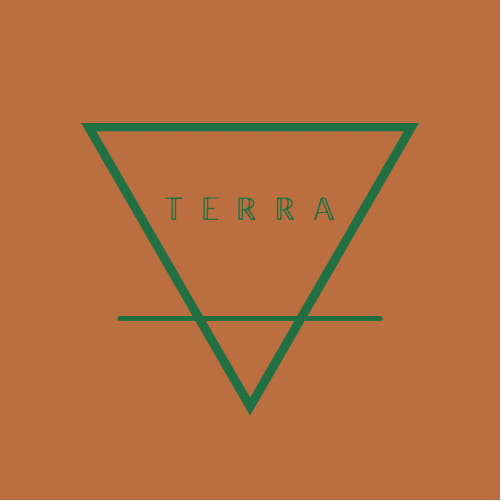
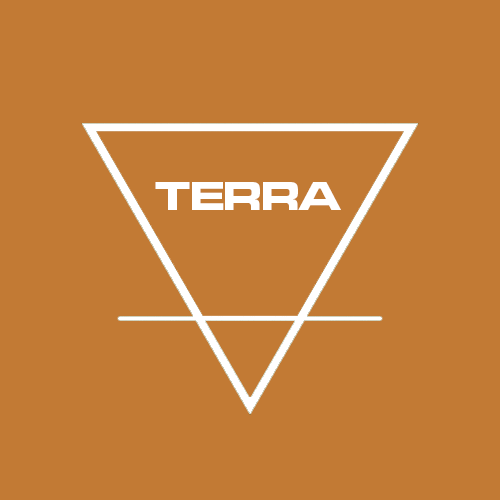
Last push

Changed region(s): [[0.1497, 0.2395, 0.8383, 0.8383]]

diff --git a/index.html b/index.html
@@ -26,27 +26,33 @@
         </audio>
 
         <section class="welcome">
-            <h2>Buenvenido a</h2>
             <img class="img-fluid img-logo" src="./img/logo.png" alt="Logo de Fusion Park">
-            <button onclick="start();" class="btn btn-primary" type="button">Bienvenido</button>
+            <p>Una vez que estés dentro mueve el curso por la pantalla. Si estás en un dispositivos móvil, desliza tu dedo por los logos de los elementos para descubrir más.</p>
+            <button onclick="start();" class="btn btn-primary boton" type="button">EMPIEZA</button>
         </section>
 
         <div class="logosection container-fluid">
             <div class="row">
-                <div class="aquadiv logo-div col-12">
-                    <img class="img-fluid img-logo" src="./img/aqua.png" alt="logo de Aqua">
-                </div>
                 <div class="caelidiv logo-div col-12">
                     <img class="img-fluid img-logo" src="./img/caeli.png" alt="logo de Caeli">
-                </div>
-                <div class="terradiv logo-div col-12">
-                    <img class="img-fluid img-logo" src="./img/terra.png" alt="logo de Terra">
                 </div>
                 <div class="ignisdiv logo-div col-12">
                     <img class="img-fluid img-logo" src="./img/ignis.png" alt="logo de Ignis">
                 </div>
+                <div class="aquadiv logo-div col-12">
+                    <img class="img-fluid img-logo" src="./img/aqua.png" alt="logo de Aqua">
+                </div>
+                <div class="terradiv logo-div col-12">
+                    <img class="img-fluid img-logo" src="./img/terra.png" alt="logo de Terra">
+                </div>
             </div>
         </div>
+        <footer class="footer mt-auto py-3 bg-light">
+            <div class="container">
+                <p>CREADO POR ESTUDIANTES DE COMUNICACIÓN SOCIAL PARA NARRATIVAS TRANSMEDIA</p>
+            </div>
+        </footer>
+        
         
         <script src="https://cdn.jsdelivr.net/npm/bootstrap@5.0.0-beta1/dist/js/bootstrap.bundle.min.js" integrity="sha384-ygbV9kiqUc6oa4msXn9868pTtWMgiQaeYH7/t7LECLbyPA2x65Kgf80OJFdroafW" crossorigin="anonymous"></script>
         <script src="./js/index.js" async defer></script>

diff --git a/css/index.css b/css/index.css
@@ -1,5 +1,13 @@
+@font-face {
+    font-family: 'micrograma';
+    src: url('/fonts/micro.otf');
+  }
+
+@import url('https://fonts.googleapis.com/css2?family=Questrial&display=swap');
+
 body{
     overflow: hidden;
+    font-family: 'micrograma';
 }
 .logosection{
     height: 100vh;
@@ -19,30 +27,37 @@ body{
     transition: ease-in 1s;
 }
 
+.welcome p{
+    font-family: 'Questrial', sans-serif;
+    color: white;
+    width: 300px;
+    text-align: center;
+}
+
 
 .aquadiv{
-    background-color: #5297fe;
+    background-color:#0098ff;
     display: flex;
     align-items: center;
     
 }
 
 .caelidiv{
-    background-color: #d9ffbb;
+    background-color: #d8ffcc;
     display: flex;
     align-items: center;
     
 }
 
 .ignisdiv{
-    background-color: #d64721;
+    background-color: #f91b1b;
     display: flex;
     align-items: center;
     
 }
 
 .terradiv{
-    background-color: #bb703f;
+    background-color: #d87b2a;
     display: flex;
     align-items: center;
     
@@ -93,13 +108,36 @@ body{
     margin: auto; 
 } 
 
+.boton{
+    background-color: transparent;
+    border: 3px solid white;
+}
+
+
+footer {
+    position: absolute;
+    height: 40px;
+    width: 100vw;
+    bottom: 0;
+    z-index: 3;
+}
+
+footer p{
+    font-size: 12px;
+    text-align: center;
+}
 
 @media (max-width: 992px) { 
     .img-logo{
         
-        width: 180px;
+        width: 160px;
         
         
+    }
+
+    footer p{
+        font-size: 7px;
+        text-align: center;
     }
  }
 

diff --git a/js/index.js b/js/index.js
@@ -219,15 +219,13 @@ function start() {
 
 function backgroundMove() {
     
-    setTimeout(function(){welcomeDiv.style.backgroundColor = "#b44946";}, 1000); 
-    setTimeout(function(){welcomeDiv.style.backgroundColor = '#eb9d5b';}, 2000);
-    setTimeout(function(){welcomeDiv.style.backgroundColor = '#bf2f67';}, 3000); 
+    setTimeout(function(){welcomeDiv.style.backgroundColor = "#0098ff";}, 1000); 
+    setTimeout(function(){welcomeDiv.style.backgroundColor = '#d8ffcc';}, 2000);
+    setTimeout(function(){welcomeDiv.style.backgroundColor = '#f91b1b';}, 3000); 
     setTimeout(function(){
-        welcomeDiv.style.backgroundColor = '#3b4d9f';
+        welcomeDiv.style.backgroundColor = '#d87b2a';
         backgroundMove()
     }, 4000);  
-    
-        
 }
 
 backgroundMove();
